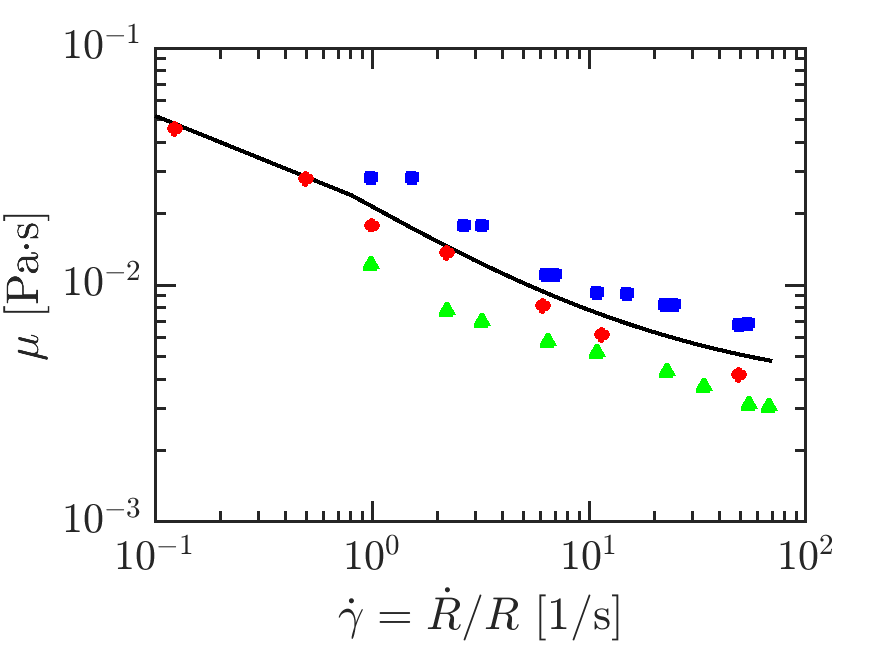
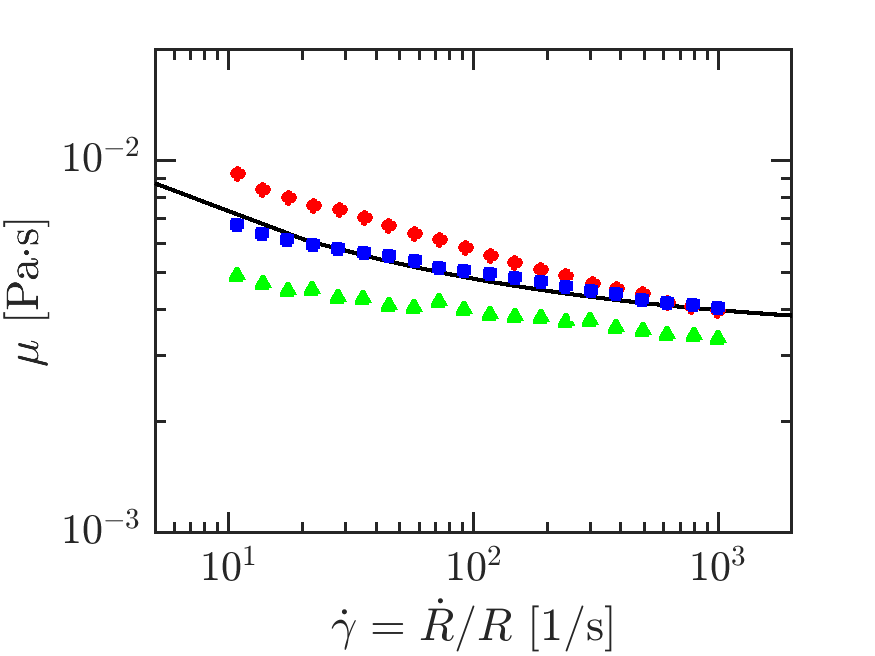
added the Kim et al. data fitting

diff --git a/kimcarreaufit.m b/kimcarreaufit.m
@@ -1,0 +1,126 @@
+clear; close all; clc;
+% reading the data
+data = csvread('./blooddata/kim_blood_data.csv',2,0);
+
+skax = (data(data(:,1)~=0,1));
+skay = (data(data(:,2)~=0,2))/1000;
+birox = (data(data(:,3)~=0,3));
+biroy = (data(data(:,4)~=0,4))/1000;
+merix = (data(data(:,5)~=0,5));
+meriy = (data(data(:,6)~=0,6))/1000;
+
+% Values from Carreau model in Myers et al. PRE
+mu0 = 0.056;
+mu8 = 0.00345;
+
+% Stacking the three data sets together, can be seperated
+gamma = [skax;birox;merix];
+mu = [skay;biroy;meriy];
+mu = mu(1:end);
+gamma = gamma(1:end);
+
+% defining the carreau equation, x(4) is mu_infinity, x(3) is mu_0, x(2) 
+% is n_c, x(1) is \lambda
+car = @(x,gamma) mu8 + (mu0-mu8).*(1+x(1)^2.*gamma.^2).^((x(2)-1)/2);
+% setting initial condition in the guess
+% setting lower and upper bounds for the fitting
+lb = [1E-6    ,  0.1 ];
+ub = [300   ,   0.8];
+x0 = (lb+ub)*0.5;
+options = optimoptions('lsqcurvefit','Algorithm','trust-region-reflective',...
+    'OptimalityTolerance',1e-8,'FunctionTolerance',1E-8);
+% running least-squares fit in a nonliner sense, it is still linear
+% the arguments in xsol are the values in line 22
+[xsol,resnorm] = lsqcurvefit(car,x0,gamma,mu,lb,ub,options)
+
+% plotting the comparisons in a log-log plot to see the comparison more
+% fairly, add this figure to the manuscript (after making it prettier)
+xl = linspace(1,2000,100);
+
+figure(1)
+loglog(xl,car(xsol,xl), 'k','LineWidth',2);
+hold on
+loglog(skax,skay,'or','markerfacecolor','r','LineWidth',2);
+loglog(birox,biroy,'sb','markerfacecolor','b','LineWidth',2)
+loglog(merix,meriy,'g^','markerfacecolor','g','LineWidth',2)
+
+xlim([5 2E3]);
+ylim([1E-3 2E-2]);
+xticks([10E-2 10E-1 10 10E1 1E3]);
+yticks([10E-4 10E-3 10E-2]);
+xlabel('$\dot{\gamma} = \dot{R}/R$ [1/s]','Interpreter','Latex','FontSize',20); 
+ylabel('$\mu$ [Pa$\cdot$s]', 'Interpreter', 'Latex', 'FontSize', 20); 
+box on;
+set(gcf,'color','w'); %Changes background to white 
+set(gca, 'FontName', 'Times', 'FontSize', 20); 
+set(gca,'TickLabelInterpreter','latex')
+xa = gca;
+xa.TickLength = [.03 .03];
+xa.LineWidth = 1.5;
+print('./fitfigs/carreauFit1', '-dpng'); 
+
+
+% plotting the data alongside the fit in a regular figure
+figure(2)
+hold on;
+plot(xl,car(xsol,xl),'-k','LineWidth',2)
+hold on
+plot(skax,skay,'or','markerfacecolor','r','LineWidth',2);
+plot(birox,biroy,'sb','markerfacecolor','b','LineWidth',2)
+plot(merix,meriy,'g^','markerfacecolor','g','LineWidth',2)
+
+% ylim([0 0.07])
+xlabel('$\dot{\gamma} = \dot{R}/R$ [1/s]','Interpreter','Latex','FontSize',20); 
+ylabel('$\mu$ [Pa$\cdot$s]', 'Interpreter', 'Latex', 'FontSize', 20);    
+box on;
+set(gcf,'color','w'); %Changes background to white 
+set(gca, 'FontName', 'Times', 'FontSize', 20); 
+set(gca,'TickLabelInterpreter','latex')
+xa = gca;
+xa.TickLength = [.03 .03];
+xa.LineWidth = 1.5;
+print('./fitfigs/carreauFit2', '-dpng'); 
+
+
+% Skalak
+options = optimoptions('lsqcurvefit','Algorithm','trust-region-reflective',...
+    'OptimalityTolerance',1e-10,'FunctionTolerance',1E-8);
+[xsol_s,resnorm_s] = lsqcurvefit(car,x0,skax,skay,lb,ub,options)
+
+% Biro
+options = optimoptions('lsqcurvefit','Algorithm','trust-region-reflective',...
+    'OptimalityTolerance',1e-10,'FunctionTolerance',1E-8);
+[xsol_b,resnorm_b] = lsqcurvefit(car,x0,birox,biroy,lb,ub,options)
+
+% Merrill
+options = optimoptions('lsqcurvefit','Algorithm','trust-region-reflective',...
+    'OptimalityTolerance',1e-10,'FunctionTolerance',1E-8);
+[xsol_m,resnorm_m] = lsqcurvefit(car,x0,merix,meriy,lb,ub,options)
+
+figure(3)
+loglog(xl,car(xsol,xl), 'k','LineWidth',2);
+hold on
+loglog(skax,skay,'or','markerfacecolor','r','LineWidth',2);
+loglog(xl,car(xsol_s,xl),'--r','LineWidth',2)
+
+loglog(birox,biroy,'sb','markerfacecolor','b','LineWidth',2)
+loglog(xl,car(xsol_b,xl),':b','LineWidth',2)
+
+loglog(merix,meriy,'g^','markerfacecolor','g','LineWidth',2)
+loglog(xl,car(xsol_m,xl),'-.g','LineWidth',2)
+
+%axis([10E-1 10E1 10E-2 10E-1])
+xlim([5 2E3]);
+ylim([1E-3 2E-2]);
+xticks([10E-2 10E-1 10 10E1 1E3]);
+yticks([10E-4 10E-3 10E-2]);
+xlabel('$\dot{\gamma} = \dot{R}/R$ [1/s]','Interpreter','Latex','FontSize',20); 
+ylabel('$\mu$ [Pa$\cdot$s]', 'Interpreter', 'Latex', 'FontSize', 20); 
+box on;
+set(gcf,'color','w'); %Changes background to white 
+set(gca, 'FontName', 'Times', 'FontSize', 20); 
+set(gca,'TickLabelInterpreter','latex')
+xa = gca;
+xa.TickLength = [.03 .03];
+xa.LineWidth = 1.5;
+print('./fitfigs/carreauFit3', '-dpng'); 
